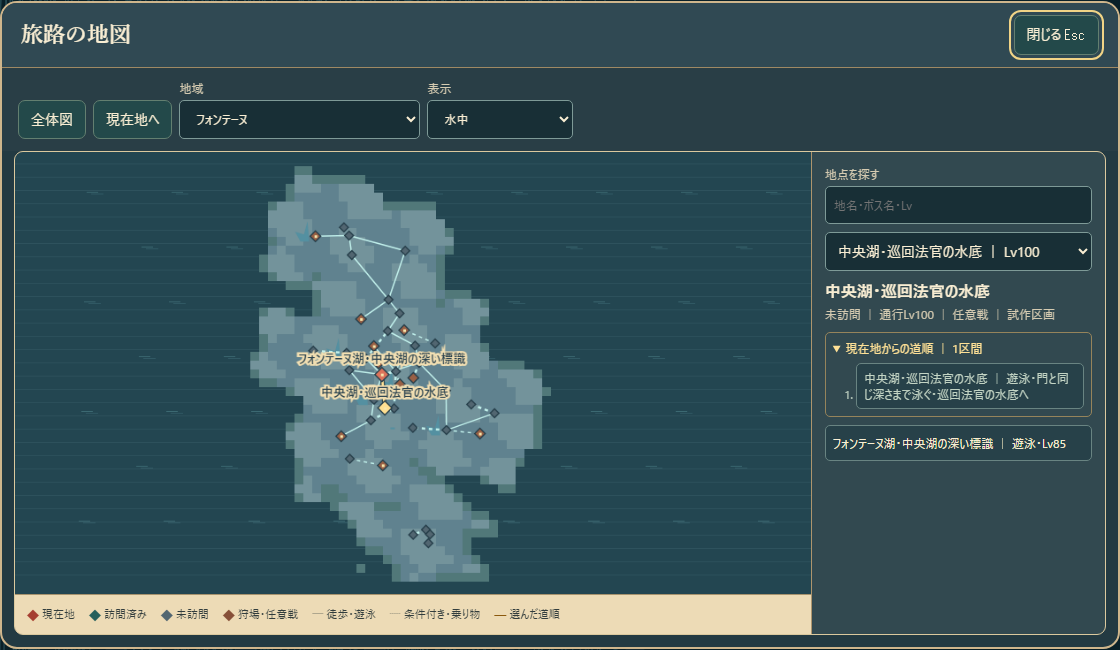
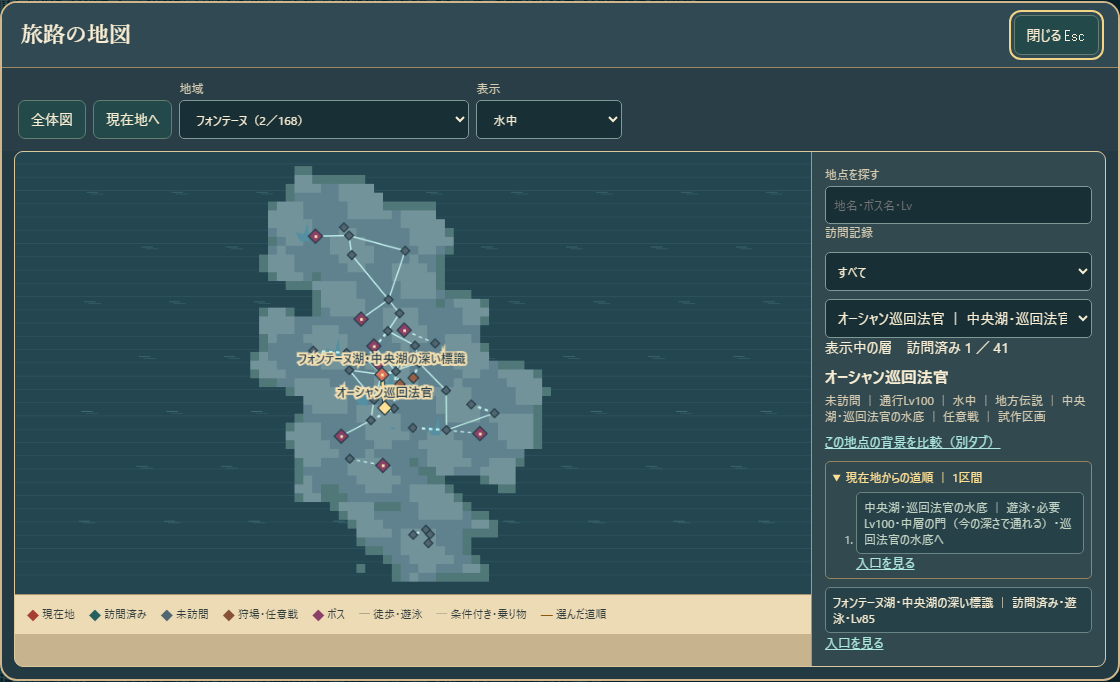
Guide swimmers to the depth of each underwater atlas gate

diff --git a/test_fontaine_exploration_routes.py b/test_fontaine_exploration_routes.py
@@ -80,7 +80,7 @@ def follow(walk, path, mode):
     assert planned['status'] == 'ready' and [leg['id'] for leg in planned['stops']] == stops, (origin, planned)
     assert all(leg['mode'] == mode for leg in planned['stops']), planned
     if mode == 'swim':
-        assert all(leg['label'] == '遊泳' and '門と同じ深さまで泳ぐ' in leg['hint'] for leg in planned['stops'])
+        assert all(leg['label'] == '遊泳' and 'の門' in leg['hint'] for leg in planned['stops'])
     for dest in stops:
         walk.cross(dest)
 
@@ -113,6 +113,9 @@ def try_legend(host, arena):
 
     mode = 'swim' if nodes[arena].get('swim') else 'walk'
     if mode == 'swim':
+        for offset, instruction in [(-60, '潜る'), (-59, '今の深さで通れる'), (60, '浮上')]:
+            s.actors[s.active].y = gate['y'] + offset
+            assert instruction in guide(s, arena)['stops'][0]['hint']
         walk.approach(gate['x'], gate['y'] - 80, arena)
         core.action(s, 'story_portal:' + arena)
         assert s.story.node == host and not s.story.visited[arena]

diff --git a/docs/FONTAINE_WAYPOINTS_WEB.md b/docs/FONTAINE_WAYPOINTS_WEB.md
@@ -10,7 +10,7 @@ M地図の「狩場・任意戦」では、ベリルの入江の河原Lv91とベ
 
 ## 水中の門と地方伝説への道順
 
-M地図の「水中」で水中の移動先を絞り込める。水中の門を自分で泳いで通る区間は「遊泳」と表示し、入口までの道順に「門と同じ深さまで泳ぐ」と案内する。乗り継ぎ時間のある水路は「水路」と表示する。巡回法官の水底へは中央湖の深い標識から進み、同じ水深の門を使って戻れる。 [巡回法官への道順](../evidence/fontaine-ocean-judge-atlas.png)
+M地図の「水中」で水中の移動先を絞り込める。水中の門を自分で泳いで通る区間は「遊泳」と表示し、門が浅い層・中層・深い層のどこにあるかを表示する。泳いでいるマップでは、今の深さから潜るか浮上するかも分かる。乗り継ぎ時間のある水路は「水路」と表示する。巡回法官の水底へは中央湖の深い標識から進み、同じ水深の門を使って戻れる。 [巡回法官への道順](../evidence/fontaine-ocean-judge-atlas.png)
 
 地方伝説15地点への16経路をLuaで往復した。シャサニョンの泡室は水門の調査報告前後の入口をそれぞれ使用した。Lv99では現地の門と地図で入場を止め、遊泳区間では深さが違うと門を通れないことを確認した。ベリルの西斜面のつづら折れと、氷風組曲の両会場への3経路も往復した。試走では出発地点、Lvと一部の依頼進行を用意した。Chromeでは巡回法官の水底までの往復と水辺の広場への保存復元を確認した。 [Luaの試走](../evidence/fontaine-exploration-routes-lua.json) · [Chromeの記録](../evidence/fontaine-exploration-routes-browser.json)
 
